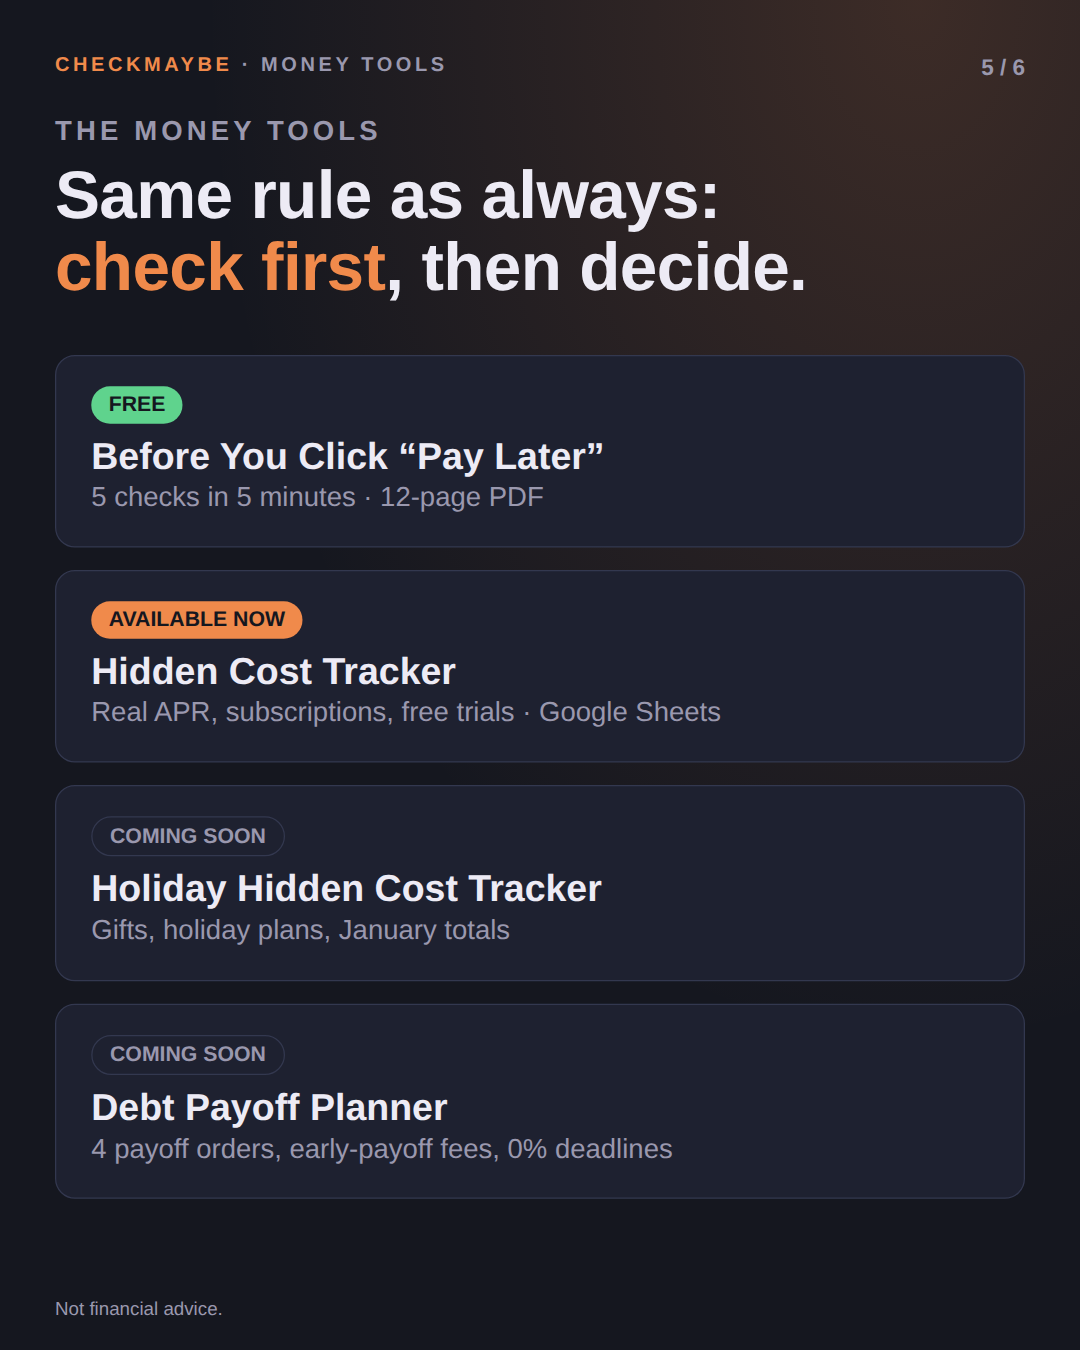
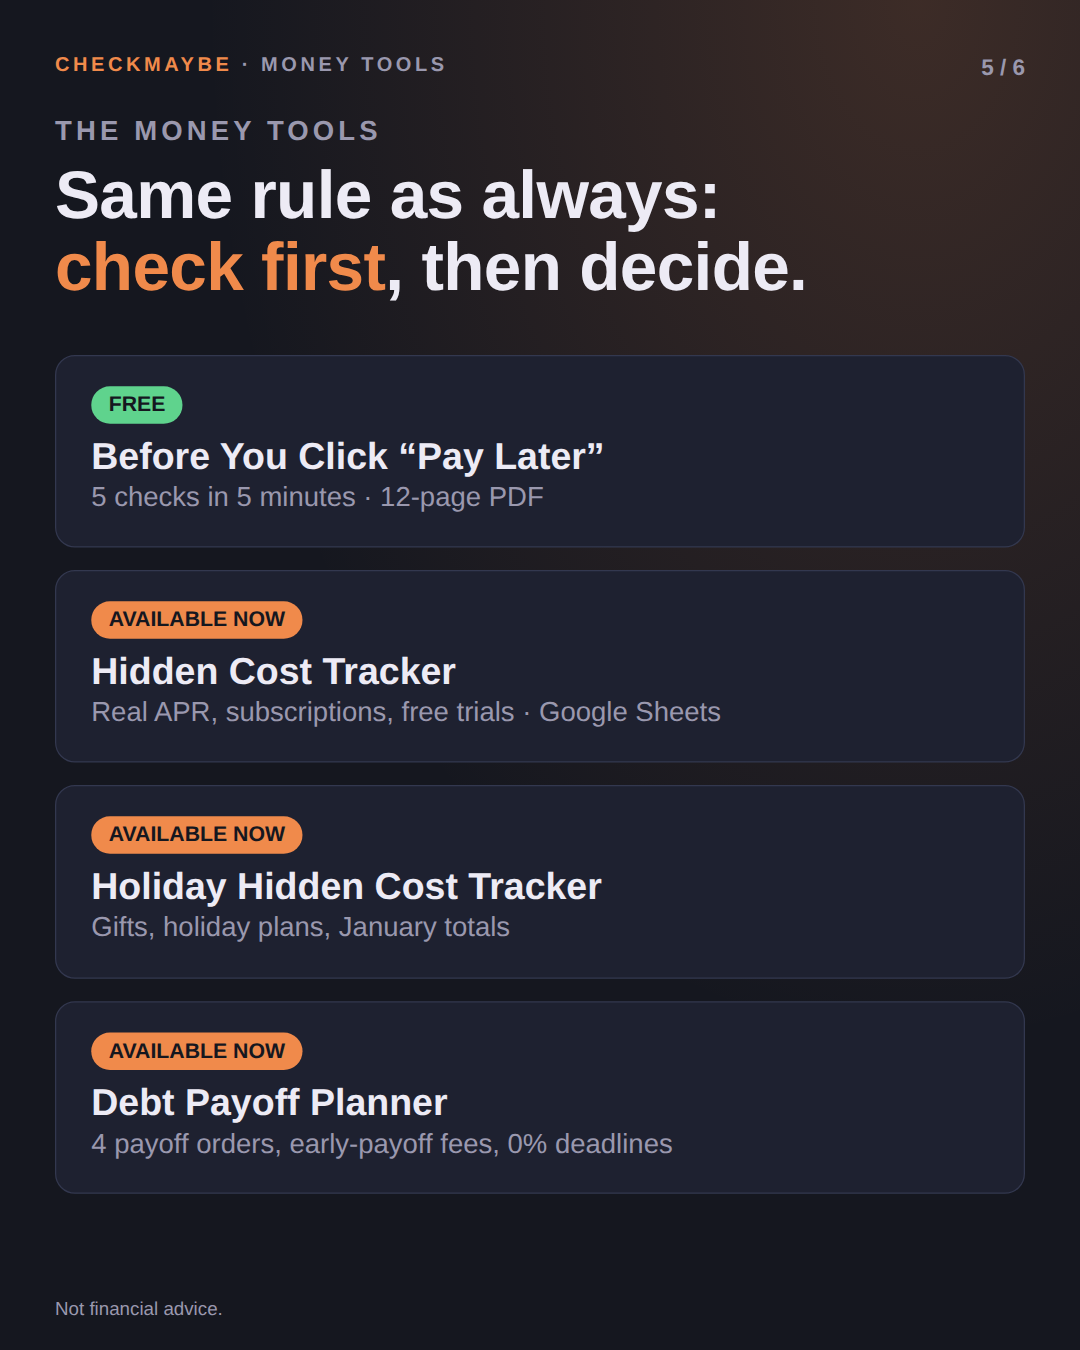
All product URLs in Pinterest pins and UTM table; Holiday, Planner and Debt Toolkit marked live; money carousel slide 5 says Available now
Claude-Session: https://claude.ai/code/session_01C31xGpXxLcjXH3oTDRifkH

Changed region(s): [[0.0917, 0.7467, 0.6417, 0.8711], [0.0917, 0.5911, 0.55, 0.7156], [0.4278, 0.6222, 0.4583, 0.6533]]

diff --git a/content/2026-10-money-series/build_carousels.py b/content/2026-10-money-series/build_carousels.py
@@ -90,8 +90,8 @@ A = series("Money tools", [
      '<div style="margin-top:40px;display:grid;gap:18px">'
      '<div class="card" style="padding:24px 28px"><span class="free">FREE</span><div style="font-size:30px;font-weight:800;margin-top:10px">Before You Click “Pay Later”</div><div class="sub" style="font-size:22px">5 checks in 5 minutes · 12-page PDF</div></div>'
      '<div class="card" style="padding:24px 28px"><span class="live">AVAILABLE NOW</span><div style="font-size:30px;font-weight:800;margin-top:10px">Hidden Cost Tracker</div><div class="sub" style="font-size:22px">Real APR, subscriptions, free trials · Google Sheets</div></div>'
-     '<div class="card" style="padding:24px 28px"><span class="soon">COMING SOON</span><div style="font-size:30px;font-weight:800;margin-top:10px">Holiday Hidden Cost Tracker</div><div class="sub" style="font-size:22px">Gifts, holiday plans, January totals</div></div>'
-     '<div class="card" style="padding:24px 28px"><span class="soon">COMING SOON</span><div style="font-size:30px;font-weight:800;margin-top:10px">Debt Payoff Planner</div><div class="sub" style="font-size:22px">4 payoff orders, early-payoff fees, 0% deadlines</div></div>'
+     '<div class="card" style="padding:24px 28px"><span class="live">AVAILABLE NOW</span><div style="font-size:30px;font-weight:800;margin-top:10px">Holiday Hidden Cost Tracker</div><div class="sub" style="font-size:22px">Gifts, holiday plans, January totals</div></div>'
+     '<div class="card" style="padding:24px 28px"><span class="live">AVAILABLE NOW</span><div style="font-size:30px;font-weight:800;margin-top:10px">Debt Payoff Planner</div><div class="sub" style="font-size:22px">4 payoff orders, early-payoff fees, 0% deadlines</div></div>'
      '</div>', "Not financial advice."),
     ("06-cta",
      '<h1 style="font-size:66px;margin-top:70px">Start with the<br><em>free</em> guide</h1>'

diff --git a/content/pinterest/2026-10/pins.md b/content/pinterest/2026-10/pins.md
@@ -21,8 +21,8 @@ Rules followed: every number is a labelled made-up example checked in the sheets
 
 ## Links (UTM)
 Format: `<product URL>?utm_source=pinterest&utm_medium=social&utm_campaign=<pin id>`
-Known URLs: Can I Sell This? `https://checkmaybe.gumroad.com/l/baxojo`; Hidden Cost Tracker `https://checkmaybe.gumroad.com/l/kofwfjf`.
-Others: replace `<…-url>` with the product's Gumroad URL (Gumroad › Products › Share). Until then use the store `https://checkmaybe.gumroad.com`.
+
+All product URLs filled in (2026-10-07).
 
 ## Posting order (2 pins a day: one money, one seller)
 Each pin = one image + its title, description, alt text and link below. Use Pinterest's own scheduler (Publish at a later date) to queue a whole week in one sitting. Don't publish all 14 at once: spread them out.
@@ -32,10 +32,10 @@ Each pin = one image + its title, description, alt text and link below. Use Pint
 | 1 | m1 | s4 |
 | 2 | m5 | s1 |
 | 3 | m2 | s5 |
-| 4 | h1 (if Holiday tracker is live) | s2 |
+| 4 | h1 | s2 |
 | 5 | m6 | s3 |
-| 6 | h2 (if live) | m3 |
-| 7 | p1 (if Planner is live) | m4 |
+| 6 | h2 | m3 |
+| 7 | p1 | m4 |
 
 Holiday pins: repin h1 and h2 to the Christmas board on 11/13. Planner pin: repin late December ("debt payoff" searches rise for New Year).
 After week 1: 1 new pin a day (or a new version of the best pin) is enough.
@@ -50,25 +50,25 @@ After 4 weeks: check Pinterest Analytics (impressions, saves, outbound clicks) a
 - **Title:** Buy Now Pay Later: "Only $67 a Month" Can Be 29.8% APR
 - **Description:** A $1,200 phone paid as 24 × $67 costs $1,608: $408 extra, about 29.8% APR (made-up example). Before you click "pay later", run 5 quick checks: total cost, yearly rate, late and deferred-interest rules, first payment date, and what else is due that month. Free 12-page PDF guide. Not financial advice. #buynowpaylater #budgeting #personalfinance
 - **Alt text:** Text pin: "Only $67 a month" is about 29.8% APR on a $1,200 phone. $67 × 24 = $1,608, minus $1,200 = $408 extra.
-- **Link:** `<pay-later-url>?utm_source=pinterest&utm_medium=social&utm_campaign=m1`
+- **Link:** `https://checkmaybe.gumroad.com/l/cbmfye?utm_source=pinterest&utm_medium=social&utm_campaign=m1`
 
 ### m2 — 5 checks (Pay Later & Budgeting Tips; also Christmas Budget)
 - **Title:** 5 Checks Before You Click "Pay Later" (Free BNPL Checklist)
 - **Description:** Pay-in-4, store financing, "only $X a month": five one-minute checks before you agree. 1. What will I pay in total? 2. Roughly what yearly rate is that? 3. What if I'm late, or don't finish on time? 4. When does the first payment leave? 5. What else is due that month? Free 12-page PDF with a one-page summary. Not financial advice.
 - **Alt text:** Checklist pin listing 5 questions to ask before using buy now pay later.
-- **Link:** `<pay-later-url>?utm_source=pinterest&utm_medium=social&utm_campaign=m2`
+- **Link:** `https://checkmaybe.gumroad.com/l/cbmfye?utm_source=pinterest&utm_medium=social&utm_campaign=m2`
 
 ### m3 — When 0% stops being 0% (Pay Later & Budgeting Tips)
 - **Title:** Deferred Interest Explained: When "0%" Stops Being 0%
 - **Description:** "No interest if paid in full" isn't always 0%. With deferred interest, any balance left when the promo ends can be charged interest back to the day you bought it (US CFPB). Look for these words in your agreement before you sign. Free guide: Before You Click "Pay Later". Educational, not financial advice.
 - **Alt text:** Text pin explaining deferred interest: if a balance is left when the promo ends, interest can go back to the purchase date.
-- **Link:** `<pay-later-url>?utm_source=pinterest&utm_medium=social&utm_campaign=m3`
+- **Link:** `https://checkmaybe.gumroad.com/l/cbmfye?utm_source=pinterest&utm_medium=social&utm_campaign=m3`
 
 ### m4 — Free guide product pin (Pay Later & Budgeting Tips)
 - **Title:** Free Buy Now Pay Later Guide: 5 Checks in 5 Minutes (PDF)
 - **Description:** Before You Click "Pay Later" is a free 12-page PDF: 5 quick checks, a one-page summary and a fill-in list for all your plans, so a small monthly payment doesn't become a bill you didn't see coming. Not financial advice.
 - **Alt text:** Pages of the free PDF guide Before You Click "Pay Later".
-- **Link:** `<pay-later-url>?utm_source=pinterest&utm_medium=social&utm_campaign=m4`
+- **Link:** `https://checkmaybe.gumroad.com/l/cbmfye?utm_source=pinterest&utm_medium=social&utm_campaign=m4`
 
 ### m5 — Hidden Cost Tracker (Pay Later & Budgeting Tips; also Debt Payoff)
 - **Title:** Debt, BNPL & Subscription Tracker for Google Sheets (Real APR)
@@ -86,19 +86,19 @@ After 4 weeks: check Pinterest Analytics (impressions, saves, outbound clicks) a
 - **Title:** Christmas Budget: Holiday Pay-in-4 Plans Add Up in January
 - **Description:** Made-up example: four "small" holiday plans (two pay-in-4, store financing, a monthly plan) put $428.25 due in January, on top of the usual bills. Add every gift and plan to one list with its due dates before you check out. Holiday Hidden Cost Tracker for Google Sheets. Not financial advice.
 - **Alt text:** Pin showing a month-by-month table of holiday payments, with $428.25 due in January.
-- **Link:** `<holiday-url>?utm_source=pinterest&utm_medium=social&utm_campaign=h1`
+- **Link:** `https://checkmaybe.gumroad.com/l/nhbkwx?utm_source=pinterest&utm_medium=social&utm_campaign=h1`
 
 ### h2 — Gift tracker (Christmas Budget & Gift Planning) — day after h1
 - **Title:** Christmas Gift List & Budget Tracker (Google Sheets Template)
 - **Description:** Gift list with a budget per person, every pay-later plan with its due dates, the real APR of each plan, month-by-month totals and free-trial cancel-by dates, in one Google Sheet. Example data, not financial advice.
 - **Alt text:** Gift List tab of the Holiday Hidden Cost Tracker in Google Sheets.
-- **Link:** `<holiday-url>?utm_source=pinterest&utm_medium=social&utm_campaign=h2`
+- **Link:** `https://checkmaybe.gumroad.com/l/nhbkwx?utm_source=pinterest&utm_medium=social&utm_campaign=h2`
 
 ### p1 — Snowball or avalanche (Debt Payoff Planning) — post on Planner launch day
 - **Title:** Debt Snowball vs Avalanche: Check Early-Payoff Fees First
 - **Description:** The cheapest payoff order on paper can cost more. In the made-up example, Avalanche shows the least interest but clears a store card after its 0% deal ends, so back-interest could be added. Debt Payoff Planner compares Smart, Avalanche, Snowball and Cash-flow side by side, with early-payoff fees and 0% deadlines. Google Sheets. Not financial advice.
 - **Alt text:** Comparison table of debt payoff orders with a note about a missed 0% deadline.
-- **Link:** `<planner-url>?utm_source=pinterest&utm_medium=social&utm_campaign=p1`
+- **Link:** `https://checkmaybe.gumroad.com/l/ddktis?utm_source=pinterest&utm_medium=social&utm_campaign=p1`
 
 ### s1 — Canva (Selling Digital Products: Licensing)
 - **Title:** Can You Sell Canva Templates? Commercial Use Checklist for Sellers
@@ -110,22 +110,22 @@ After 4 weeks: check Pinterest Analytics (impressions, saves, outbound clicks) a
 - **Title:** Selling AI Art or AI Ebooks? 5 Commercial Use Checks First
 - **Description:** Before you sell something made with AI, check 5 things: tool (does your plan allow commercial use?), output (what rights do you get?), input (what did you upload?), use (where will you sell it?) and verify (what must you disclose?). Can I Use This? is a 32-page toolkit with official sources cited. Not legal advice.
 - **Alt text:** Numbered list of 5 checks before selling AI-made products, above toolkit pages.
-- **Link:** `<can-i-use-this-url>?utm_source=pinterest&utm_medium=social&utm_campaign=s2`
+- **Link:** `https://checkmaybe.gumroad.com/l/kzhzh?utm_source=pinterest&utm_medium=social&utm_campaign=s2`
 
 ### s3 — Resell rights (Selling Digital Products: Licensing)
 - **Title:** PLR & Resell Rights: What to Check Before You Buy
 - **Description:** PLR, MRR, resell rights: the licence text decides, not the label. Check what you're allowed to sell, and where, before you pay, and again before you list. Can I Resell This? is a 22-page buyer's checklist with platform rules quoted word for word. Not legal advice.
 - **Alt text:** Pin about checking resell rights packs, with pages from the Can I Resell This? checklist.
-- **Link:** `<can-i-resell-this-url>?utm_source=pinterest&utm_medium=social&utm_campaign=s3`
+- **Link:** `https://checkmaybe.gumroad.com/l/gqezch?utm_source=pinterest&utm_medium=social&utm_campaign=s3`
 
 ### s4 — Free audit (Selling Digital Products: Licensing)
 - **Title:** 5 Questions Before You List Any Digital Product (Free Checklist)
 - **Description:** Templates, printables, ebooks, AI-assisted products: run 5 questions before you hit publish. What went into it? Which licence covers each piece? What exactly am I selling? Where will I sell it? What must I disclose? Free 6-page PDF. Not legal advice.
 - **Alt text:** Checklist pin with 5 questions to ask before listing a digital product, and the free PDF cover.
-- **Link:** `<free-audit-url>?utm_source=pinterest&utm_medium=social&utm_campaign=s4`
+- **Link:** `https://checkmaybe.gumroad.com/l/zqjszy?utm_source=pinterest&utm_medium=social&utm_campaign=s4`
 
 ### s5 — Bundle (Selling Digital Products: Licensing)
 - **Title:** Canva, AI & Resell Rights Licensing Toolkit Bundle for Etsy Sellers
 - **Description:** Can I sell this? Can I use this? Can I resell this? Three PDF toolkits, 82 pages, every answer tied to the official source. $29 instead of $45. Not legal advice; not affiliated with any platform named.
 - **Alt text:** The three CheckMaybe toolkits shown as printed PDFs.
-- **Link:** `<bundle-url>?utm_source=pinterest&utm_medium=social&utm_campaign=s5`
+- **Link:** `https://checkmaybe.gumroad.com/l/udjkm?utm_source=pinterest&utm_medium=social&utm_campaign=s5`

diff --git a/content/utm-links.md b/content/utm-links.md
@@ -1,16 +1,30 @@
 # UTM links (CheckMaybe)
 
 `utm_source` = platform · `utm_medium` = social · `utm_campaign` = `bio` (profile link) or `post` (link in a post/comment).
-Replace `<can-i-use-this-code>` with the code at the end of the Can I Use This? product URL.
+Add `?utm_source=<platform>&utm_medium=social&utm_campaign=<bio|post|pin id>` to any product URL below.
 
 | Platform | Destination | Link |
 | --- | --- | --- |
 | instagram | Store (all products) | `https://checkmaybe.gumroad.com?utm_source=instagram&utm_medium=social&utm_campaign=bio` |
 | instagram | Can I Sell This? | `https://checkmaybe.gumroad.com/l/baxojo?utm_source=instagram&utm_medium=social&utm_campaign=post` |
-| instagram | Can I Use This? | `https://checkmaybe.gumroad.com/l/<can-i-use-this-code>?utm_source=instagram&utm_medium=social&utm_campaign=post` |
+| instagram | Can I Use This? | `https://checkmaybe.gumroad.com/l/kzhzh?utm_source=instagram&utm_medium=social&utm_campaign=post` |
 | threads | Store (all products) | `https://checkmaybe.gumroad.com?utm_source=threads&utm_medium=social&utm_campaign=bio` |
 | threads | Can I Sell This? | `https://checkmaybe.gumroad.com/l/baxojo?utm_source=threads&utm_medium=social&utm_campaign=post` |
-| threads | Can I Use This? | `https://checkmaybe.gumroad.com/l/<can-i-use-this-code>?utm_source=threads&utm_medium=social&utm_campaign=post` |
+| threads | Can I Use This? | `https://checkmaybe.gumroad.com/l/kzhzh?utm_source=threads&utm_medium=social&utm_campaign=post` |
 | facebook | Store (all products) | `https://checkmaybe.gumroad.com?utm_source=facebook&utm_medium=social&utm_campaign=bio` |
 | facebook | Can I Sell This? | `https://checkmaybe.gumroad.com/l/baxojo?utm_source=facebook&utm_medium=social&utm_campaign=post` |
-| facebook | Can I Use This? | `https://checkmaybe.gumroad.com/l/<can-i-use-this-code>?utm_source=facebook&utm_medium=social&utm_campaign=post` |
+| facebook | Can I Use This? | `https://checkmaybe.gumroad.com/l/kzhzh?utm_source=facebook&utm_medium=social&utm_campaign=post` |
+
+## Product URLs (all live, checked 2026-10-07)
+| Product | URL |
+| --- | --- |
+| The 5-Minute Pre-Publish Audit (free) | https://checkmaybe.gumroad.com/l/zqjszy |
+| Can I Sell This? | https://checkmaybe.gumroad.com/l/baxojo |
+| Can I Use This? | https://checkmaybe.gumroad.com/l/kzhzh |
+| Can I Resell This? | https://checkmaybe.gumroad.com/l/gqezch |
+| The Complete Toolkit Bundle | https://checkmaybe.gumroad.com/l/udjkm |
+| Before You Click "Pay Later" (free) | https://checkmaybe.gumroad.com/l/cbmfye |
+| Hidden Cost Tracker | https://checkmaybe.gumroad.com/l/kofwfjf |
+| Debt Payoff Planner | https://checkmaybe.gumroad.com/l/ddktis |
+| Holiday Hidden Cost Tracker | https://checkmaybe.gumroad.com/l/nhbkwx |
+| Debt Toolkit Bundle | https://checkmaybe.gumroad.com/l/gdaiyy |

diff --git a/planning/2026-10-debt-toolkit/01-plan.md b/planning/2026-10-debt-toolkit/01-plan.md
@@ -8,9 +8,9 @@
 | --- | --- | --- | --- |
 | 免費導流 | Before You Click "Pay Later"（BNPL 真實成本檢查表） | US$0 | **已上架（2026-10-06）** |
 | 單本 | Hidden Cost Tracker（Debt, BNPL & Subscription） | US$8 | 已上架 |
-| 單本 | Debt Payoff Planner：4 種順序比較（Smart／雪崩／雪球／現金流）＋提前還款違約金、綁約、不確定規則、0% 遞延利息期限、逾期優先 | 假設 US$7 | **v1 已做好** `products/debt-payoff-planner/`（待轉 Google Sheets）。缺口證據：Etsy 第 1 頁 47 筆中 0 筆標題提到 interest/APR（`planning/2026-09-debt-payoff-tracker/01-etsy-research.md`） |
-| 單本（季節） | Holiday Hidden Cost Tracker（黑五／聖誕分期） | US$7 | Google 母檔、買家 PDF、文案已完成（2026-10-05），11/1 前上架 |
-| 全套 | Debt Toolkit Bundle（以上 3 本） | 建議 US$15（單買合計 US$22，約 32% off，與 Canva 系列一致） | 文案與圖片已備好（`products/debt-toolkit-bundle/`），待創辦人定價 |
+| 單本 | Debt Payoff Planner：4 種順序比較（Smart／雪崩／雪球／現金流）＋提前還款違約金、綁約、不確定規則、0% 遞延利息期限、逾期優先 | US$7 | **已上架（2026-10-07）** v1 `products/debt-payoff-planner/`（待轉 Google Sheets）。缺口證據：Etsy 第 1 頁 47 筆中 0 筆標題提到 interest/APR（`planning/2026-09-debt-payoff-tracker/01-etsy-research.md`） |
+| 單本（季節） | Holiday Hidden Cost Tracker（黑五／聖誕分期） | US$7 | **已上架（2026-10-07）** |
+| 全套 | Debt Toolkit Bundle（以上 3 本） | US$15（單買合計 US$22，約 32% off） | **已上架（2026-10-07）** |
 
 - 原本規劃的「原版＋節日版 US$12」組合保留為節慶期間限定組合。
 - 競品中位數約 US$4～7（Etsy 研究），單本不要高於 US$8。

diff --git a/content/2026-10-money-series/README.md b/content/2026-10-money-series/README.md
@@ -6,10 +6,10 @@ The earlier carousels for Hidden Cost Tracker and Before You Click "Pay Later" a
 | Folder | What it does | When to post | Link in bio points to |
 | --- | --- | --- | --- |
 | `money-series/` (6) | Traffic post: introduces the money tools, sends people to the free guide | Now: Pay Later is live (2026-10-06) | Free Pay Later guide |
-| `holiday/` (6) | Launch: Holiday Hidden Cost Tracker | Launch day (before 11/1); post again at the 11/13 Black Friday push | Holiday tracker |
-| `planner/` (6) | Launch: Debt Payoff Planner | Launch day | Debt Payoff Planner |
+| `holiday/` (6) | Launch: Holiday Hidden Cost Tracker | Now (live 2026-10-07); post again at the 11/13 Black Friday push | Holiday tracker |
+| `planner/` (6) | Launch: Debt Payoff Planner | Now (live 2026-10-07); again late December | Debt Payoff Planner |
 
-Rules followed: made-up examples are labelled on every slide; no income or savings promises; no fake urgency; no lender, BNPL brand or founder story. "Coming soon" on slide 5 of `money-series/` is true only until those two launch; after that, re-label them "Available now" and re-run.
+Rules followed: made-up examples are labelled on every slide; no income or savings promises; no fake urgency; no lender, BNPL brand or founder story. All four money tools are live (2026-10-07); slide 5 says "Available now".
 
 Numbers (checked in the sheets and listings): phone $1,200 as 24 × $67 = $1,608, about 29.8% APR; holiday January $428.25 = 10.2% of the example income; console $499 as 6 × $89.50 = $537, about 25.7% APR; planner Avalanche 1,598.68 vs Smart 1,679.15 interest, Avalanche clears the store card after its 0% deal ends.
 
